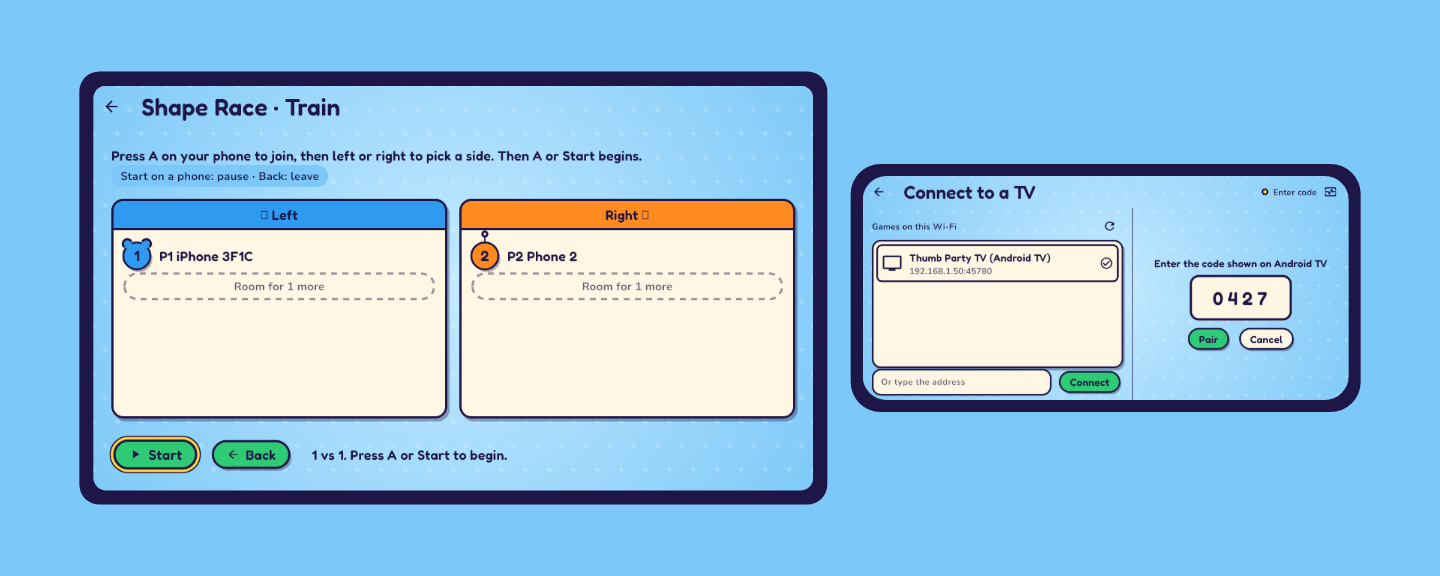
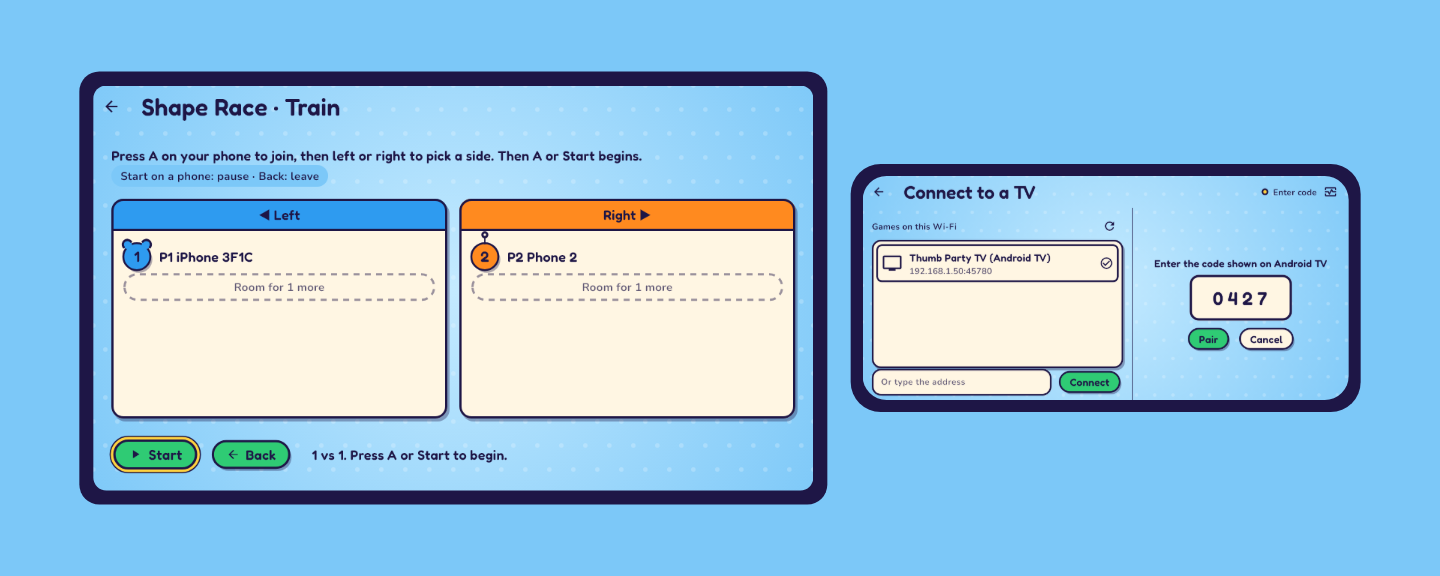
Symbol fallback for the guide's join-screen arrows
The join screen heads its sides "◀ Left" and "Right ▶"; no font the apps
bundle has those symbols, so the pictures drew them as boxes. The picture
test now loads the machine's symbol face (Segoe UI Symbol, Apple Symbols
or DejaVu, first that exists) as a fallback family the pictures' theme
names, and a machine without one prints a line and still draws them.
Flutter prefixes a style's package onto its fallback families, so the face
is also loaded as packages/toy_look/SymbolFallback, the name the look's
styles look up. Only join.png changed; the other five are byte-identical.

Changed region(s): [[0.0938, 0.3438, 0.2812, 0.5312], [0.3125, 0.3438, 0.5312, 0.4688], [0.4062, 0.4688, 0.4688, 0.5312]]

diff --git a/controller_app/test/support/test_font.dart b/controller_app/test/support/test_font.dart
@@ -1,5 +1,6 @@
 import 'dart:io';
 
+import 'package:flutter/foundation.dart' show debugPrint;
 import 'package:flutter/services.dart';
 import 'package:flutter_test/flutter_test.dart';
 
@@ -67,6 +68,65 @@ File iconFont() {
 /// Windows can't tell that from the capitalised name older versions use.
 const String _iconFontInCache = 'artifacts/material_fonts';
 const List<String> _iconFaceNames = ['materialicons-regular.otf', 'MaterialIcons-Regular.otf'];
+
+/// The family the picture's theme falls back to for a symbol no font the apps
+/// bundle draws: the join screen's `◀` and `▶` (M13.4). A device draws them
+/// from its system font; a test's own font gives a box, as the look's Fredoka
+/// and Nunito do (neither has U+25C0 or U+25B6).
+const String symbolFallbackFamily = 'SymbolFallback';
+
+/// The package the look's fonts come from, as its styles name it. Flutter puts
+/// a style's package in front of every family it falls back to, not only the
+/// style's own, and the look's styles are the ones that draw the join screen's
+/// header: so the face is loaded under this package's [symbolFallbackFamily]
+/// as well, or the header finds no fallback at all.
+const String _lookPackage = 'toy_look';
+
+/// The families [loadSymbolFont] loads the machine's face as: the plain name
+/// the picture's theme lists, and the look's packaged spelling the engine
+/// resolves it to.
+const List<String> _symbolFamilies = [symbolFallbackFamily, 'packages/$_lookPackage/$symbolFallbackFamily'];
+
+/// Where a desktop machine keeps a face that has those symbols, the first one
+/// [loadSymbolFont] finds: Windows' Segoe UI Symbol, macOS' Apple Symbols, and
+/// DejaVu (Linux).
+const List<String> _symbolFontPaths = [
+  'C:/Windows/Fonts/seguisym.ttf',
+  '/System/Library/Fonts/Apple Symbols.ttf',
+  '/usr/share/fonts/truetype/dejavu/DejaVuSans.ttf',
+];
+
+/// Registers the machine's symbol face as [symbolFallbackFamily], for the
+/// pictures' theme to name as a fallback. Only a picture test loads it: a fit
+/// test measures the app's own text, and the face is the machine's, not the
+/// repo's (its licence is not one this project ships), so a machine without it
+/// still draws the pictures and says so.
+///
+/// Call it from `setUpAll`, after [loadHostFonts].
+Future<void> loadSymbolFont() async {
+  TestWidgetsFlutterBinding.ensureInitialized();
+  final face = _symbolFont();
+  if (face == null) {
+    debugPrint(
+      'no symbol font on this machine (tried ${_symbolFontPaths.join(', ')}): '
+      'the join screen\'s ◀ ▶ are drawn as boxes',
+    );
+    return;
+  }
+  for (final family in _symbolFamilies) {
+    final loader = FontLoader(family)..addFont(Future.value(ByteData.sublistView(face.readAsBytesSync())));
+    await loader.load();
+  }
+}
+
+/// The first of [_symbolFontPaths] this machine has, or null.
+File? _symbolFont() {
+  for (final path in _symbolFontPaths) {
+    final font = File(path);
+    if (font.existsSync()) return font;
+  }
+  return null;
+}
 
 /// Registers [faces], kept in [dir], as the family [family].
 Future<void> _load(String family, String dir, List<String> faces) async {

diff --git a/controller_app/test/support/site_shots.dart b/controller_app/test/support/site_shots.dart
@@ -31,6 +31,7 @@ import 'package:shared_preferences/shared_preferences.dart';
 
 import 'fakes.dart';
 import 'pump_app.dart';
+import 'test_font.dart';
 
 /// The TV's screen (the size the TV app's own screens are laid out at) and the
 /// phone's (the owner's iPhone in landscape).
@@ -147,6 +148,20 @@ Future<party_test.FakeHostService> pumpTv(WidgetTester tester, GlobalKey shot) a
   return fake;
 }
 
+/// The pictures' theme: the look's own, with [symbolFallbackFamily] after every
+/// style's family (M13.4). The join screen's sides are headed `◀ Left` and
+/// `Right ▶`, and no face either app bundles has those two symbols, so a device
+/// draws them from its system font and a test's font draws a box;
+/// [loadSymbolFont] puts the machine's face in that family for the pictures.
+///
+/// The card's header takes the look's button style rather than the theme's, so
+/// the fallback reaches it through the default text style `Material` sets from
+/// the theme, which the header's own style is merged over.
+ThemeData shotTheme(party.ToyLook look) {
+  final theme = party.toyTheme(look);
+  return theme.copyWith(textTheme: theme.textTheme.apply(fontFamilyFallback: const [symbolFallbackFamily]));
+}
+
 /// The TV app's root, as both host apps build it (M13): the look over the
 /// MaterialApp, whose theme comes from it, with the menus working every screen
 /// from the phones.
@@ -161,7 +176,7 @@ class _TvApp extends ConsumerWidget {
         look: look,
         child: MaterialApp(
           title: 'Thumb Party TV',
-          theme: party.toyTheme(look),
+          theme: shotTheme(look),
           // The TV app's own root turns it off (`tv_test_app/lib/main.dart`); a
           // debug build would draw its red ribbon over the frame's top corner.
           debugShowCheckedModeBanner: false,

diff --git a/controller_app/test/site_shots_test.dart b/controller_app/test/site_shots_test.dart
@@ -25,6 +25,11 @@ void main() {
   // the bar's own buttons), and the test bundle has no icon font of its own.
   setUpAll(loadIconFont);
 
+  // The join screen's sides are headed `◀ Left` and `Right ▶`, which no font
+  // the apps bundle has: the machine's own symbol face fills the pictures'
+  // fallback, and a machine without one draws boxes and says so.
+  setUpAll(loadSymbolFont);
+
   const teams = {'p1': PuzzleSide.left, 'p2': PuzzleSide.right};
   const choice = party.PuzzleChoice(level: Level.medium, puzzleId: 'train');
 

diff --git a/docs/briefs/m13/tester-guide-fix2-report.md b/docs/briefs/m13/tester-guide-fix2-report.md
@@ -1,0 +1,170 @@
+# M13.4 tester guide fix 2 — report
+
+The join screen's `◀ Left` and `Right ▶` now draw in `join.png`. The fix is the one the brief
+chose: the picture test loads the machine's symbol face as a fallback family and the pictures'
+theme names it, so nothing in `lib/` changes and a machine without such a face draws boxes and
+says so instead of failing. The other five pictures are byte-identical to the previous job's
+(their md5s below match its report), which is also the proof the fallback fires only where a
+glyph is missing. All three checks pass.
+
+## What was wrong
+
+`HostText.leftSide` is `'◀ Left'` and `rightSide` is `'Right ▶'`
+(`packages/party_host/lib/src/text/host_text.dart:53`), drawn in a `ToyCard` header with the
+look's Fredoka. Neither Fredoka nor Nunito has U+25C0 or U+25B6, nor does the test's Roboto copy;
+a device fills them from its system symbol font, a widget test from its own box font.
+
+## The fix
+
+- **`controller_app/test/support/test_font.dart`**: `symbolFallbackFamily = 'SymbolFallback'`,
+  the three candidate paths as `_symbolFontPaths` (Segoe UI Symbol, Apple Symbols, DejaVu — the
+  first that exists wins), and `loadSymbolFont()`, which registers that face under the fallback
+  families and, when none of the paths exists, prints
+  `no symbol font on this machine (tried …): the join screen's ◀ ▶ are drawn as boxes` through
+  `debugPrint` (the way this repo's tests report values) and returns — never a failure.
+- **`controller_app/test/support/site_shots.dart`**: `shotTheme(look)` is the look's
+  `toyTheme(look)` with `fontFamilyFallback: [symbolFallbackFamily]` applied to every style of its
+  text theme, and `_TvApp` uses it instead of `party.toyTheme(look)`. The phone's screen keeps
+  its own theme (`ControllerApp` builds it), so this touches the pictures only.
+- **`controller_app/test/site_shots_test.dart`**: `setUpAll(loadSymbolFont)`, beside the icon
+  font's.
+
+The card's header is not drawn from the theme — `ToyCard._header` uses `look.type.button` — so
+the fallback reaches it by inheritance: `Material` sets its default text style from
+`theme.textTheme.bodyMedium`, and `Text` merges the header's own style over that one, which
+keeps the ambient `fontFamilyFallback` because the header's style has none of its own. The probe
+below is what showed the difference.
+
+## The package prefix (what the first attempt missed)
+
+The first version registered the face as `SymbolFallback` and added that to the theme, and
+`join.png` still had two boxes. Probes (`zz_symbol_probe_test.dart`, deleted after this job),
+each drawing `'◀ Left'` at 40 px:
+
+| style | result |
+| --- | --- |
+| `fontFamily: 'SymbolFallback'` alone | arrow drawn (the face has U+25C0) |
+| `Roboto` + `fontFamilyFallback: ['SymbolFallback']` (no package) | arrow drawn |
+| `'packages/toy_look/Fredoka'` + fallback (no package) | arrow drawn |
+| `Fredoka`, `package: 'toy_look'` + fallback | **box** |
+| the same, with the face also loaded as `packages/toy_look/SymbolFallback` | arrow drawn |
+
+So Flutter puts a style's `package` in front of every family the style falls back to, not only
+the style's own family. Every style the look hands out carries `package: 'toy_look'`
+(`ToyType`), so the engine looked up `packages/toy_look/SymbolFallback` and found nothing. The
+face is now loaded under both names (`_symbolFamilies`), and the theme keeps the plain
+`SymbolFallback` the brief named. Nothing in the pictures' code has to know why; `_lookPackage`
+carries the reason in its doc.
+
+## The pictures
+
+Re-rendered by `tools/check.sh phone`; every file is 1440×576 and the bytes are those on disk
+after the last run.
+
+| file | bytes | size | md5 | was |
+| --- | --- | --- | --- | --- |
+| `join.png` | 209378 | 204 KB | 145be409b9b6b8d50dcd4621170334f3 | 209363 B, c11a6e7b3428b8ce6788281d9c35f994 |
+| `dpad.png` | 197403 | 193 KB | 3a7c2a93673fb88bb99c3d2f896a651e | unchanged |
+| `tilt.png` | 201906 | 197 KB | 6bae7f1f76279d0e42a987ddd093a35d | unchanged |
+| `sticks.png` | 207115 | 202 KB | 2a63d6d95a3487cdc1ab828a60a08602 | unchanged |
+| `menus.png` | 245073 | 239 KB | f278463f86861e88212f81d8bfad3392 | unchanged |
+| `results.png` | 194311 | 190 KB | bfe13ed7309ae7ad3c16d4019f1d082c | unchanged |
+
+Largest 239 KB, against the 300 KB cap the test asserts. Determinism: the six hashes above were
+the same on two separate renders (13:02 and 13:06) on top of the test's own double captures and
+double drawings.
+
+Checked by eye, one file at a time: `join.png` shows `◀ Left` in the blue header and `Right ▶` in
+the orange one, and no box anywhere; `dpad`, `tilt`, `sticks`, `menus` and `results` are the
+previous job's pictures, still with no box.
+
+## Checks and tests
+
+| check | result |
+| --- | --- |
+| `format` | PASS |
+| `analyze` | PASS |
+| `phone` | PASS (448 tests: 447 + the 1 probe test listed for deletion; 447 once it is deleted) |
+
+The probe was also run on its own: `probe: the pictures theme draws the header arrows` draws the
+`◀ Left` card header with `shotTheme` and with plain `toyTheme` and requires the two PNGs to
+differ — the check that would have caught the package-prefix mistake, which the eye caught here.
+
+## Decisions
+
+- **Both family spellings, plain name in the theme.** The theme should not have to know the look's
+  package, and a style without a package (`Roboto` in a probe) resolves the plain name; loading
+  the face twice costs one file read.
+- **`debugPrint` for the "no face" line**, as `puzzle_size_test`, `piece_colors_test` and
+  `split_layout_test` already do for values a reviewer needs to see.
+- **No new permanent test.** A "the fallback drew" test can only pass on a machine with a symbol
+  face, and the brief asks for no failure on another machine; the probe proves the mechanism for
+  this review and goes away with it.
+
+## Self-check (docs/review-rules.md part A)
+
+1. **Every host setup.** Not affected: test code and pictures only, no app file changed, so a TV,
+   a PC host, a phone on "Play on this phone", one on "Show on this device", a joined phone and
+   an older peer all behave as before. The TV half of the pictures is `party_host`'s screens in
+   a test's `MaterialApp`, whose theme gained a fallback list that only a missing glyph reaches
+   (`site_shots_test`, 7 tests).
+2. **When kept state starts and ends.** Not affected: nothing held, timed or cached. The one new
+   "kept thing" is the registered font, which the binding keeps for the test file's life — the
+   same lifetime `loadHostFonts` and `loadIconFont` already have (`loadSymbolFont` in
+   `setUpAll`).
+3. **How a new state combines with the others.** Not affected: no pause, wait or input state.
+   The only state is "is the symbol face registered", and it is registered once before any
+   picture is drawn.
+4. **Stay in the job's folder.** Changed only `controller_app/test` (three files plus the probe
+   listed for deletion) and `site/shots` (six pictures plus the six probe images listed for
+   deletion), and this report. `git status` still lists
+   `tv_test_app/windows/flutter/generated_plugin*` as modified: `flutter test` rewrites them and
+   `git diff` shows only line endings — the same thing the last two jobs reported.
+5. **Stop rather than overstep.** Nothing needed outside `allow:`, so nothing was stopped on. The
+   package-prefix behaviour was solved inside the test files the job allows, without an app
+   change.
+
+## Questions
+
+1. Should the guide's pictures keep this fallback at all, or would you rather the join screen draw
+   its arrows as an `Icon` so the app, not the picture test, owns the glyph? The pictures now look
+   right either way; this is about where the fix lives when the arrows are next touched.
+2. Is `packages/toy_look/SymbolFallback` an acceptable test-side family name, or would you prefer
+   the look to expose its package so the test can build the name from it?
+
+## Suggestions
+
+- `docs/project-notes.md` could carry one line: "Flutter prefixes a style's `package` onto every
+  family in its `fontFamilyFallback` too, so a test font a look's style falls back to must be
+  registered as `packages/<look package>/<family>`." It cost two probe rounds here.
+- If the join screen's arrows ever move to an `Icon`, `pictureIcons` in `site_shots.dart` grows by
+  two and this fallback can go.
+
+## Commit message
+
+```
+Symbol fallback for the guide's join-screen arrows
+
+The join screen heads its sides "◀ Left" and "Right ▶"; no font the apps
+bundle has those symbols, so the pictures drew them as boxes. The picture
+test now loads the machine's symbol face (Segoe UI Symbol, Apple Symbols
+or DejaVu, first that exists) as a fallback family the pictures' theme
+names, and a machine without one prints a line and still draws them.
+Flutter prefixes a style's package onto its fallback families, so the face
+is also loaded as packages/toy_look/SymbolFallback, the name the look's
+styles look up. Only join.png changed; the other five are byte-identical.
+```
+
+## Status row
+
+- **Nov 10:** the guide's six pictures are box-free — the join screen's `◀ ▶` draw from the machine's symbol face, loaded as a fallback family for the picture test only, with a printed line instead of a failure on a machine that has none; open: nothing (the app itself still gets those two glyphs from the device's system font).
+
+## Delete
+
+- controller_app/test/zz_symbol_probe_test.dart
+- site/shots/zz_probe1.png
+- site/shots/zz_probe2.png
+- site/shots/zz_probe3.png
+- site/shots/zz_probe4.png
+- site/shots/zz_probe5.png
+- site/shots/zz_probe6.png
